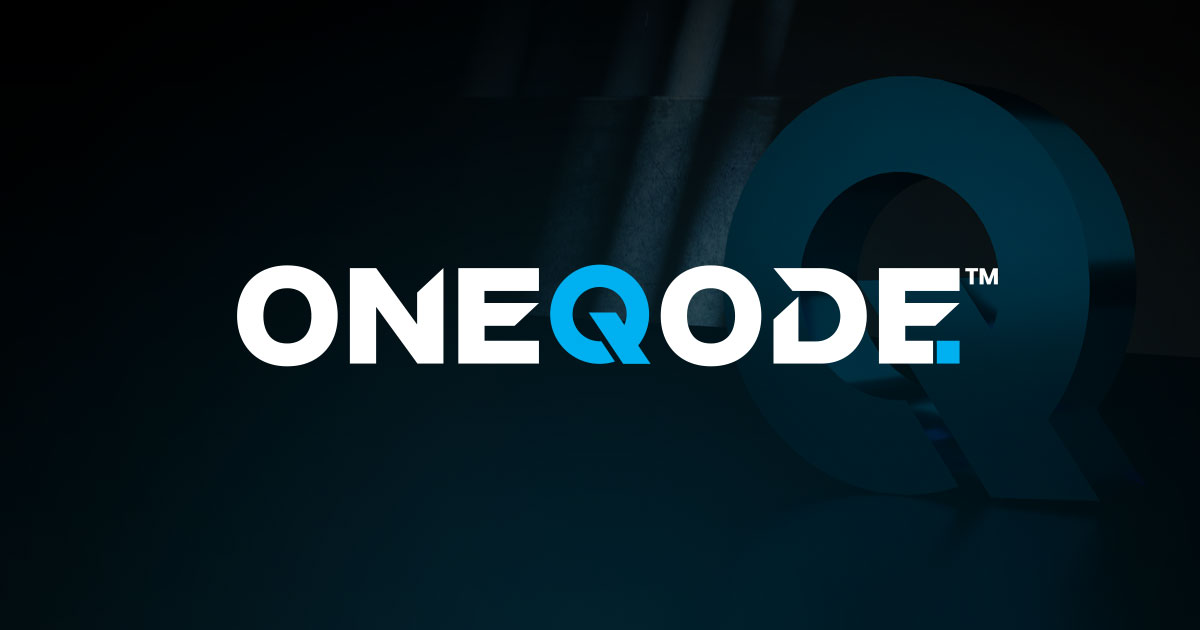
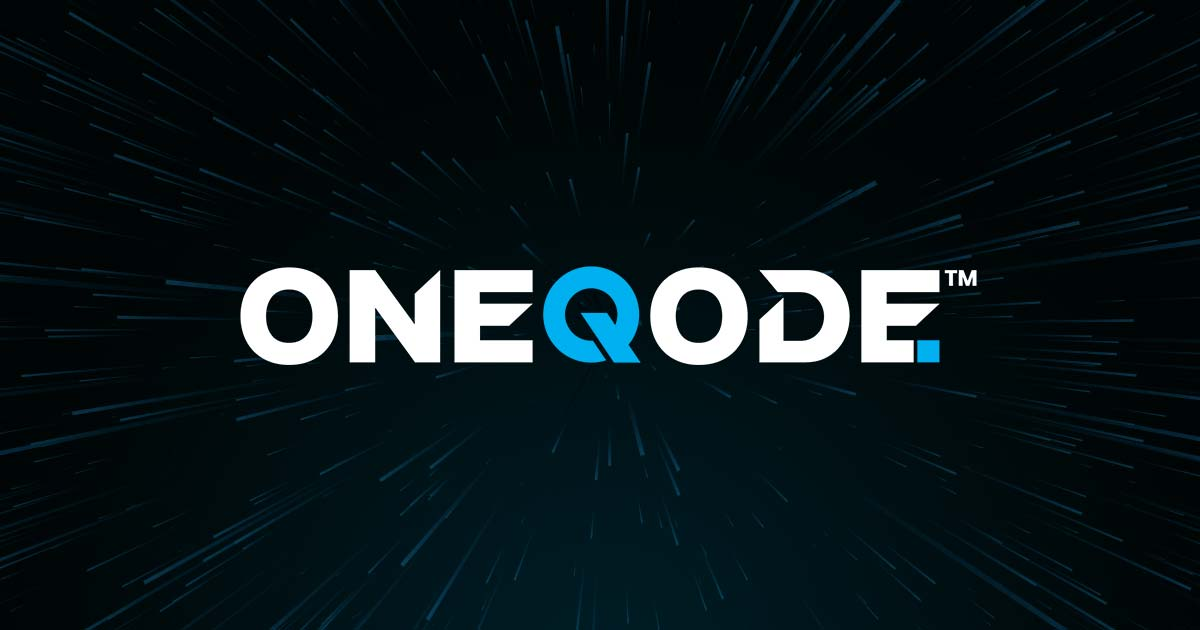
Network map full width, homepage spelling change, OG Images updated

diff --git a/_includes/css/style.css b/_includes/css/style.css
@@ -1205,13 +1205,16 @@ ul.no-style {
 #network-map {
 	position: relative;
 	display: block;
+	width: 100%;
 }
 #network-map svg {
 	position: absolute;
 	z-index: 1;
+	width: 100%;
 }
 #network-map img {
 	opacity: 1;
+	width: 100%;
 }
 #network-map line, #network-map polyline {
 	fill-rule: evenodd;
